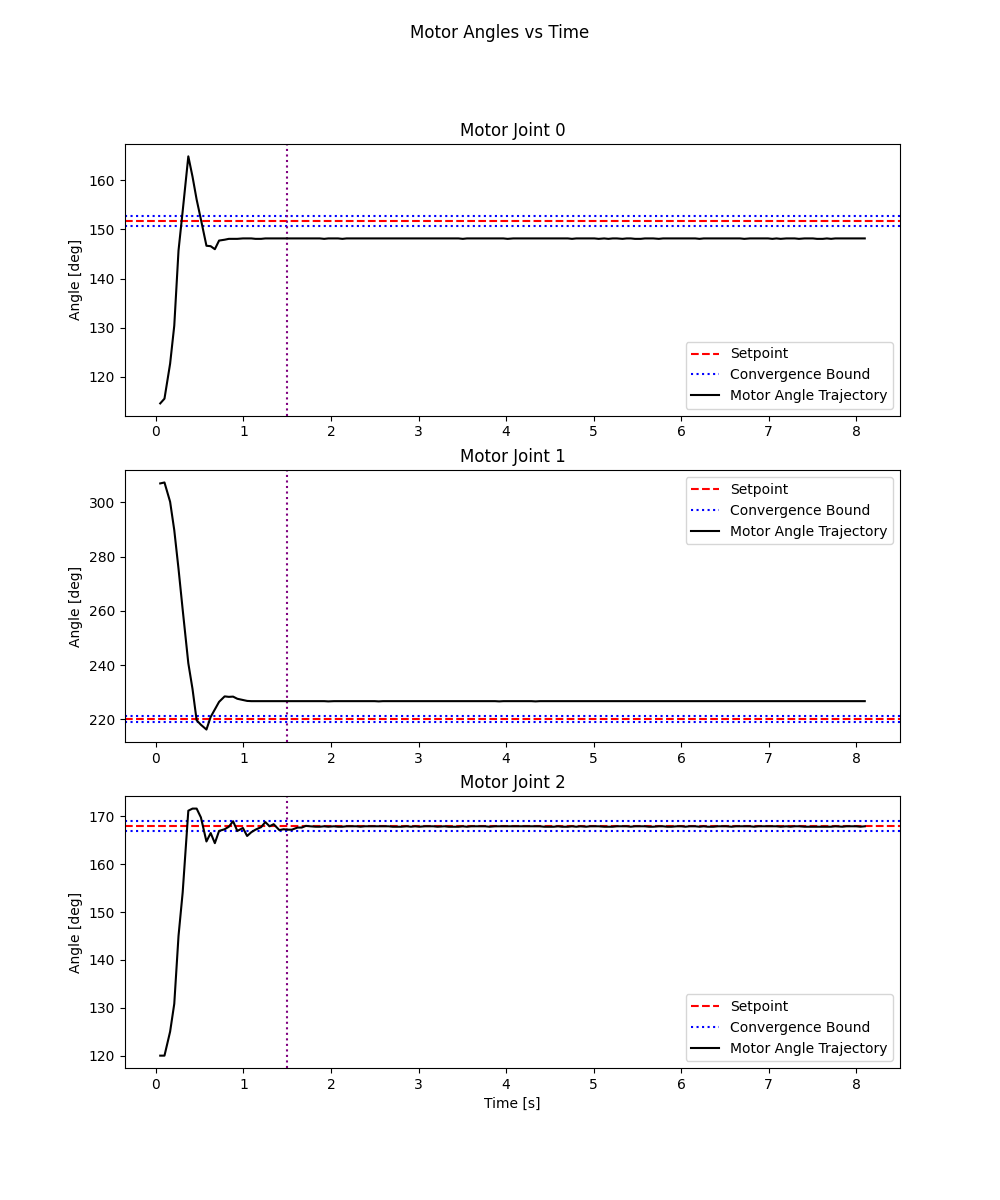
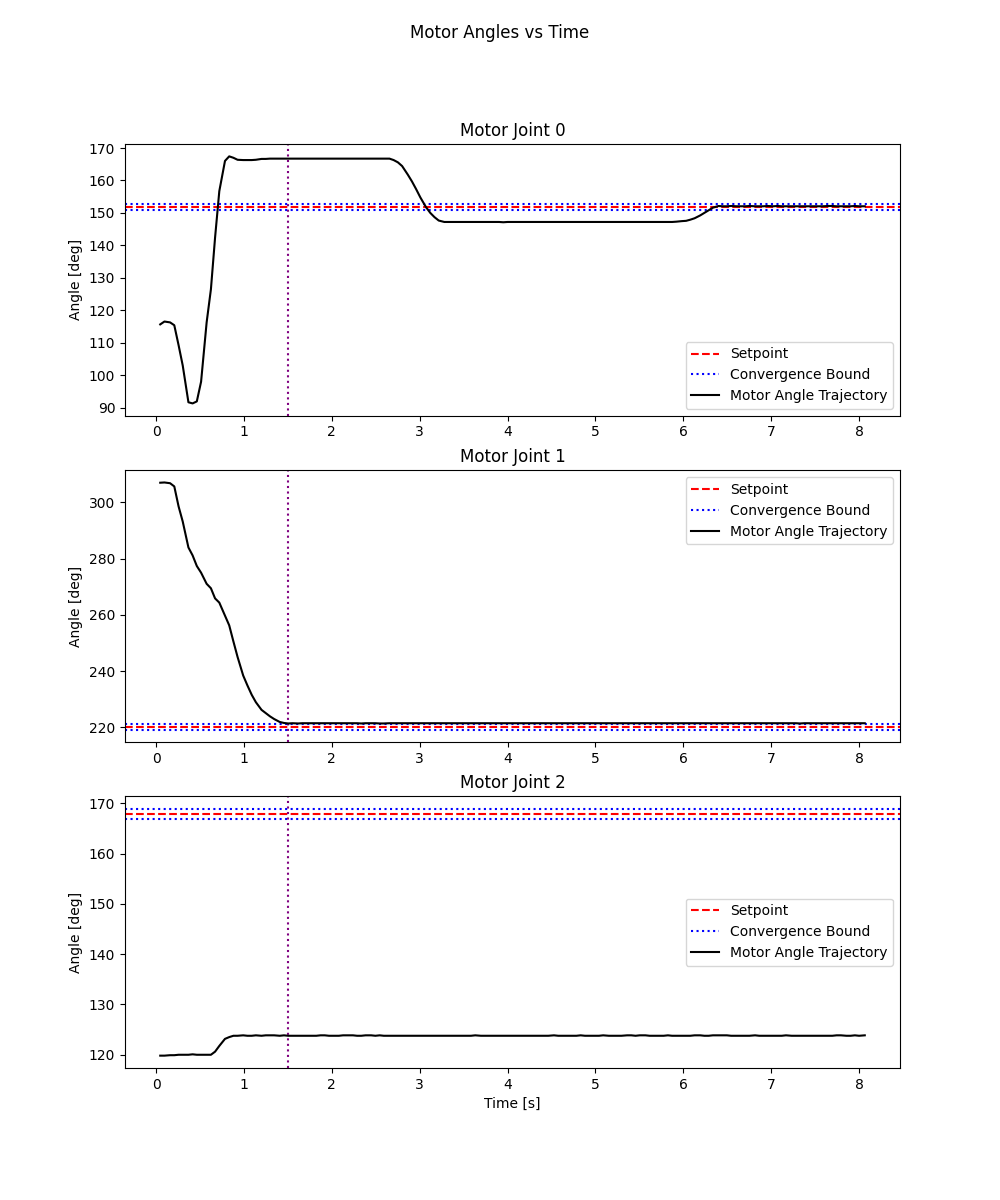
close enough

diff --git a/src/Project_InverseDynamicsControl.py b/src/Project_InverseDynamicsControl.py
@@ -406,10 +406,11 @@ if __name__ == "__main__":
     # Desired Joint Acceleration
     qddot_desired = [0, 0, 0]
 
+    # Desired Gains
     # Proportional Gain desired
-    K_P_out = np.array([[212, 0, 0],
+    K_P_out = np.array([[211, 0, 0],
                    [0, 420, 0],
-                   [0, 0, 2200]])
+                   [0, 0, 2100]])
     # Derivative Gain desired
     K_D_out = np.array([[13.8, 0, 0],
                    [0, 60, 0],
@@ -417,22 +418,24 @@ if __name__ == "__main__":
     # Integral Gain desired
     K_I_out = np.array([[200, 0, 0],
                    [0, 280, 0],
-                   [0, 0, 420]])
+                   [0, 0, 60]])
     
+
+    # Initial Gains
     # Proportional Gain Initial
-    K_P_in = np.array([[850, 0, 0],
-                   [0, 90, 0],
-                   [0, 0, 2600]])
+    K_P_in = np.array([[65, 0, 0],
+                   [0, 70, 0],
+                   [0, 0, 1200]])
 
     # Derivative Gain Initial
-    K_D_in = np.array([[100, 0, 0],
-                   [0, 8.6, 0],
+    K_D_in = np.array([[9.2, 0, 0],
+                   [0, 32, 0],
                    [0, 0, 2]])
     
     # Integral Gain Initial
-    K_I_in = np.array([[90, 0, 0],
-                   [0, 3200, 0],
-                   [0, 0, 800]])
+    K_I_in = np.array([[160, 0, 0],
+                   [0, 750, 0],
+                   [0, 0, 600]])
     
     """ BEFORE ADDING NONLINEAR TERMS
     # Proportional Gain
